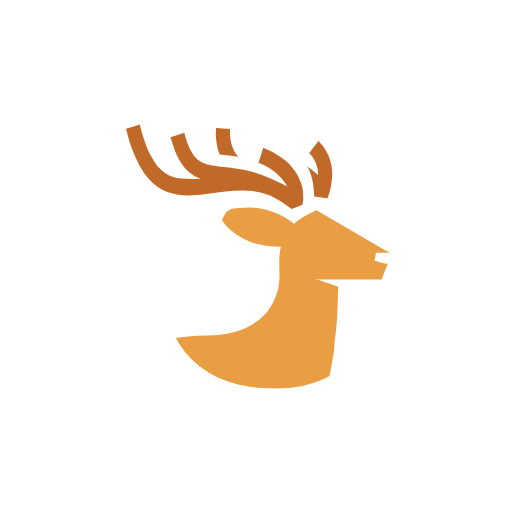
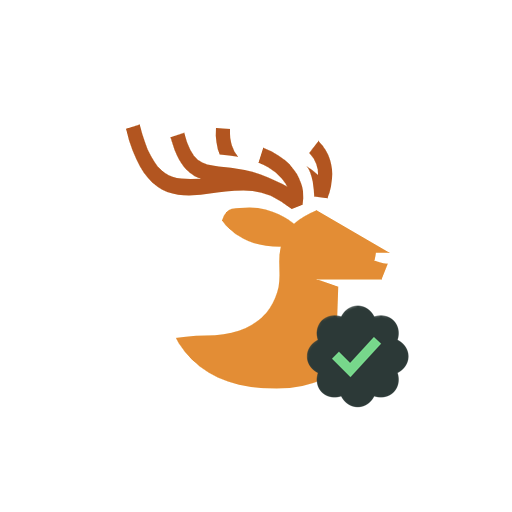
fix: updating assets to clarify that this is a friendly fork
Comments/feedback/ire should be directed at this repository, not the official Elk project repo.

Changed region(s): [[0.5938, 0.5938, 0.8125, 0.8125]]

diff --git a/components/nav/NavLogo.vue b/components/nav/NavLogo.vue
@@ -3,6 +3,16 @@
     xmlns="http://www.w3.org/2000/svg" w-full
     aspect="1/1" sm:h-8 xl:h-10 sm:w-8 xl:w-10 viewBox="0 0 250 250" fill="none"
   >
+    <defs id="defs34">
+      <g id="fedified">
+        <circle cx="12" cy="12" r="6" fill="#88DC9D" />
+        <path
+          id="path28"
+          fill="#3A4947"
+          d="M22.25 12c0-1.43-.88-2.67-2.19-3.34.46-1.39.2-2.9-.81-3.91s-2.52-1.27-3.91-.81c-.66-1.31-1.91-2.19-3.34-2.19s-2.67.88-3.33 2.19c-1.4-.46-2.91-.2-3.92.81s-1.26 2.52-.8 3.91c-1.31.67-2.2 1.91-2.2 3.34s.89 2.67 2.2 3.34c-.46 1.39-.21 2.9.8 3.91s2.52 1.26 3.91.81c.67 1.31 1.91 2.19 3.34 2.19s2.68-.88 3.34-2.19c1.39.45 2.9.2 3.91-.81s1.27-2.52.81-3.91c1.31-.67 2.19-1.91 2.19-3.34zm-11.71 4.2L6.8 12.46l1.41-1.42 2.26 2.26 4.8-5.23 1.47 1.36-6.2 6.77z"
+        />
+      </g>
+    </defs>
     <mask
       id="a"
       width="240"
@@ -39,6 +49,12 @@
         d="M 90.098,45.294 C 87.582,39.55 86.057,32.487 86.743,23.794 l 12.659,0.932 c -0.763,10.555 2.897,17.696 7.015,22.353 -5.338,-0.931 -10.447,-1.04 -16.319,-1.785 z m 80.069,-1.32 8.312,-9.702 c 21.58,19.094 8.159,46.415 8.159,46.415 l -11.819,-1.32 c -0.382,-6.24 -1.144,-17.836 -6.635,-24.371 3.584,1.84 6.635,3.865 9.99,6.908 0,-5.666 -1.754,-12.341 -8.007,-17.93 z"
       />
     </g>
+    <use
+      href="#fedified"
+      x="47"
+      y="47"
+      transform="scale(3.5)"
+    />
   </svg>
 
   </span>

diff --git a/components/nav/NavFooter.vue b/components/nav/NavFooter.vue
@@ -61,7 +61,7 @@ function toggleDark() {
         &middot;
         <NuxtLink
           external
-          :href="`https://github.com/elk-zone/elk/commit/${buildInfo.commit}`"
+          :href="`https://github.com/Distal-Labs/elk/commit/${buildInfo.commit}`"
           target="_blank"
           font-mono
         >
@@ -80,7 +80,7 @@ function toggleDark() {
         </NuxtLink>
       </template>
       &middot;
-      <NuxtLink href="/m.webtoo.ls/@elk" target="_blank">
+      <NuxtLink href="/fedified.com/@DataDrivenMD" target="_blank">
         Mastodon
       </NuxtLink>
       &middot;
@@ -88,7 +88,7 @@ function toggleDark() {
         Discord
       </NuxtLink>
       &middot;
-      <NuxtLink href="https://github.com/elk-zone/elk" target="_blank" external>
+      <NuxtLink href="https://github.com/Distal-Labs/elk" target="_blank" external>
         GitHub
       </NuxtLink>
     </div>

diff --git a/pages/settings/about/index.vue b/pages/settings/about/index.vue
@@ -34,7 +34,7 @@ function handleShowCommit() {
     <template v-if="isHydrated">
       <SettingsItem
         :text="$t('settings.about.version')"
-        :to="showCommit ? `https://github.com/elk-zone/elk/commit/${buildInfo.commit}` : undefined"
+        :to="showCommit ? `https://github.com/Distal-Labs/elk/commit/${buildInfo.commit}` : undefined"
         external target="_blank"
         @click="handleShowCommit"
       >
@@ -73,7 +73,7 @@ function handleShowCommit() {
     <SettingsItem
       text="GitHub"
       icon="i-ri:github-fill"
-      to="https://github.com/elk-zone/elk"
+      to="https://github.com/Distal-Labs/elk"
       external large target="_blank"
     />
 

diff --git a/components/notification/NotificationSubscribePushNotificationError.vue b/components/notification/NotificationSubscribePushNotificationError.vue
@@ -45,7 +45,7 @@ const { modelValue } = defineModels<{
       </i18n-t>
     </p>
     <p py-2>
-      <NuxtLink font-bold text-primary href="https://github.com/elk-zone/elk" target="_blank" flex="~ row" items-center gap-x-2>
+      <NuxtLink font-bold text-primary href="https://github.com/Distal-Labs/elk" target="_blank" flex="~ row" items-center gap-x-2>
         {{ $t('settings.notifications.push_notifications.subscription_error.repo_link') }}
         <span inline-block aria-hidden="true" i-ri:external-link-line class="rtl-flip" />
       </NuxtLink>

diff --git a/components/common/CommonPreviewPrompt.vue b/components/common/CommonPreviewPrompt.vue
@@ -13,7 +13,7 @@ const build = useBuildInfo()
     </h2>
     <p>
       <i18n-t keypath="help.build_preview.desc1">
-        <NuxtLink :href="`https://github.com/elk-zone/elk/commit/${build.commit}`" target="_blank" text-rose hover:underline>
+        <NuxtLink :href="`https://github.com/Distal-Labs/elk/commit/${build.commit}`" target="_blank" text-rose hover:underline>
           <code>{{ build.shortCommit }}</code>
         </NuxtLink>
       </i18n-t>

diff --git a/components/nav/NavTitle.vue b/components/nav/NavTitle.vue
@@ -30,7 +30,7 @@ router.afterEach(() => {
     >
       <NavLogo shrink-0 aspect="1/1" sm:h-8 xl:h-10 class="rtl-flip" />
       <div v-show="isHydrated" hidden xl:block text-secondary>
-        {{ $t('app_name') }} <sup text-sm italic mt-1>{{ env === 'release' ? 'alpha' : env }}</sup>
+        {{ $t('app_name') }} <sup text-sm italic mt-1>{{ env === 'release' ? 'alpha+QTs' : env }}</sup>
       </div>
     </NuxtLink>
     <div

diff --git a/components/help/HelpPreview.vue b/components/help/HelpPreview.vue
@@ -23,7 +23,7 @@ const emit = defineEmits<{
     </p>
     <p>
       {{ $t('help.desc_para4') }}
-      <NuxtLink font-bold text-primary href="https://github.com/elk-zone/elk" target="_blank">
+      <NuxtLink font-bold text-primary href="https://github.com/Distal-Labs/elk" target="_blank">
         {{ $t('help.desc_para5') }}
       </NuxtLink>
       {{ $t('help.desc_para6') }}

diff --git a/server/utils/shared.ts b/server/utils/shared.ts
@@ -49,7 +49,7 @@ async function fetchAppInfo(origin: string, server: string) {
     method: 'POST',
     body: {
       client_name: APP_NAME + (env !== 'release' ? ` (${env})` : ''),
-      website: 'https://elk.zone',
+      website: 'https://elk.fedified.com',
       redirect_uris: getRedirectURI(origin, server),
       scopes: 'read write follow push',
     },

diff --git a/app.vue b/app.vue
@@ -7,7 +7,7 @@ const route = useRoute()
 if (process.server && !route.path.startsWith('/settings')) {
   useHead({
     meta: [
-      { property: 'og:url', content: `https://elk.zone${route.path}` },
+      { property: 'og:url', content: `https://elk.fedified.com${route.path}` },
     ],
   })
 }
